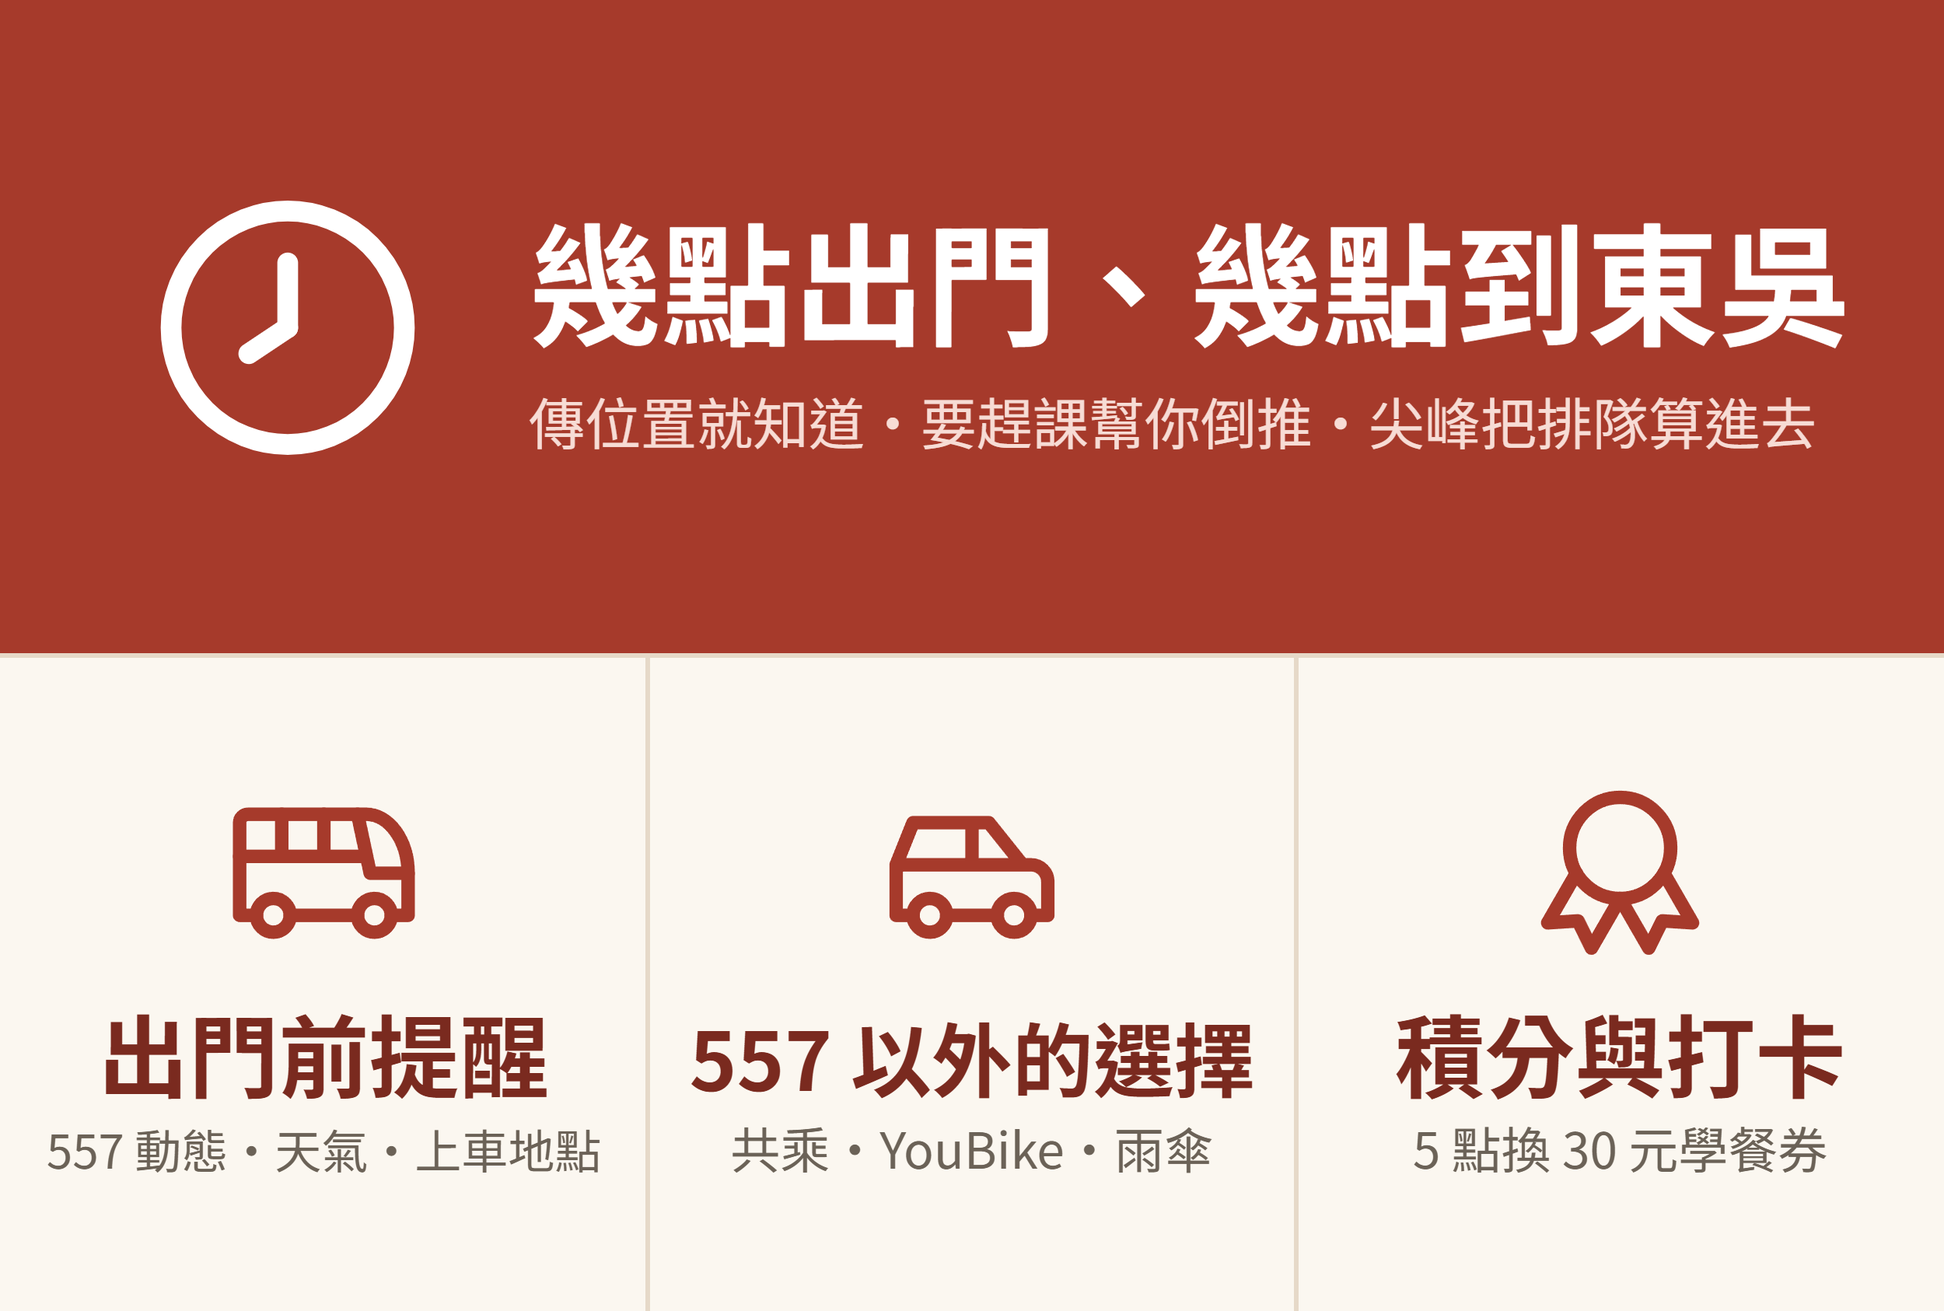
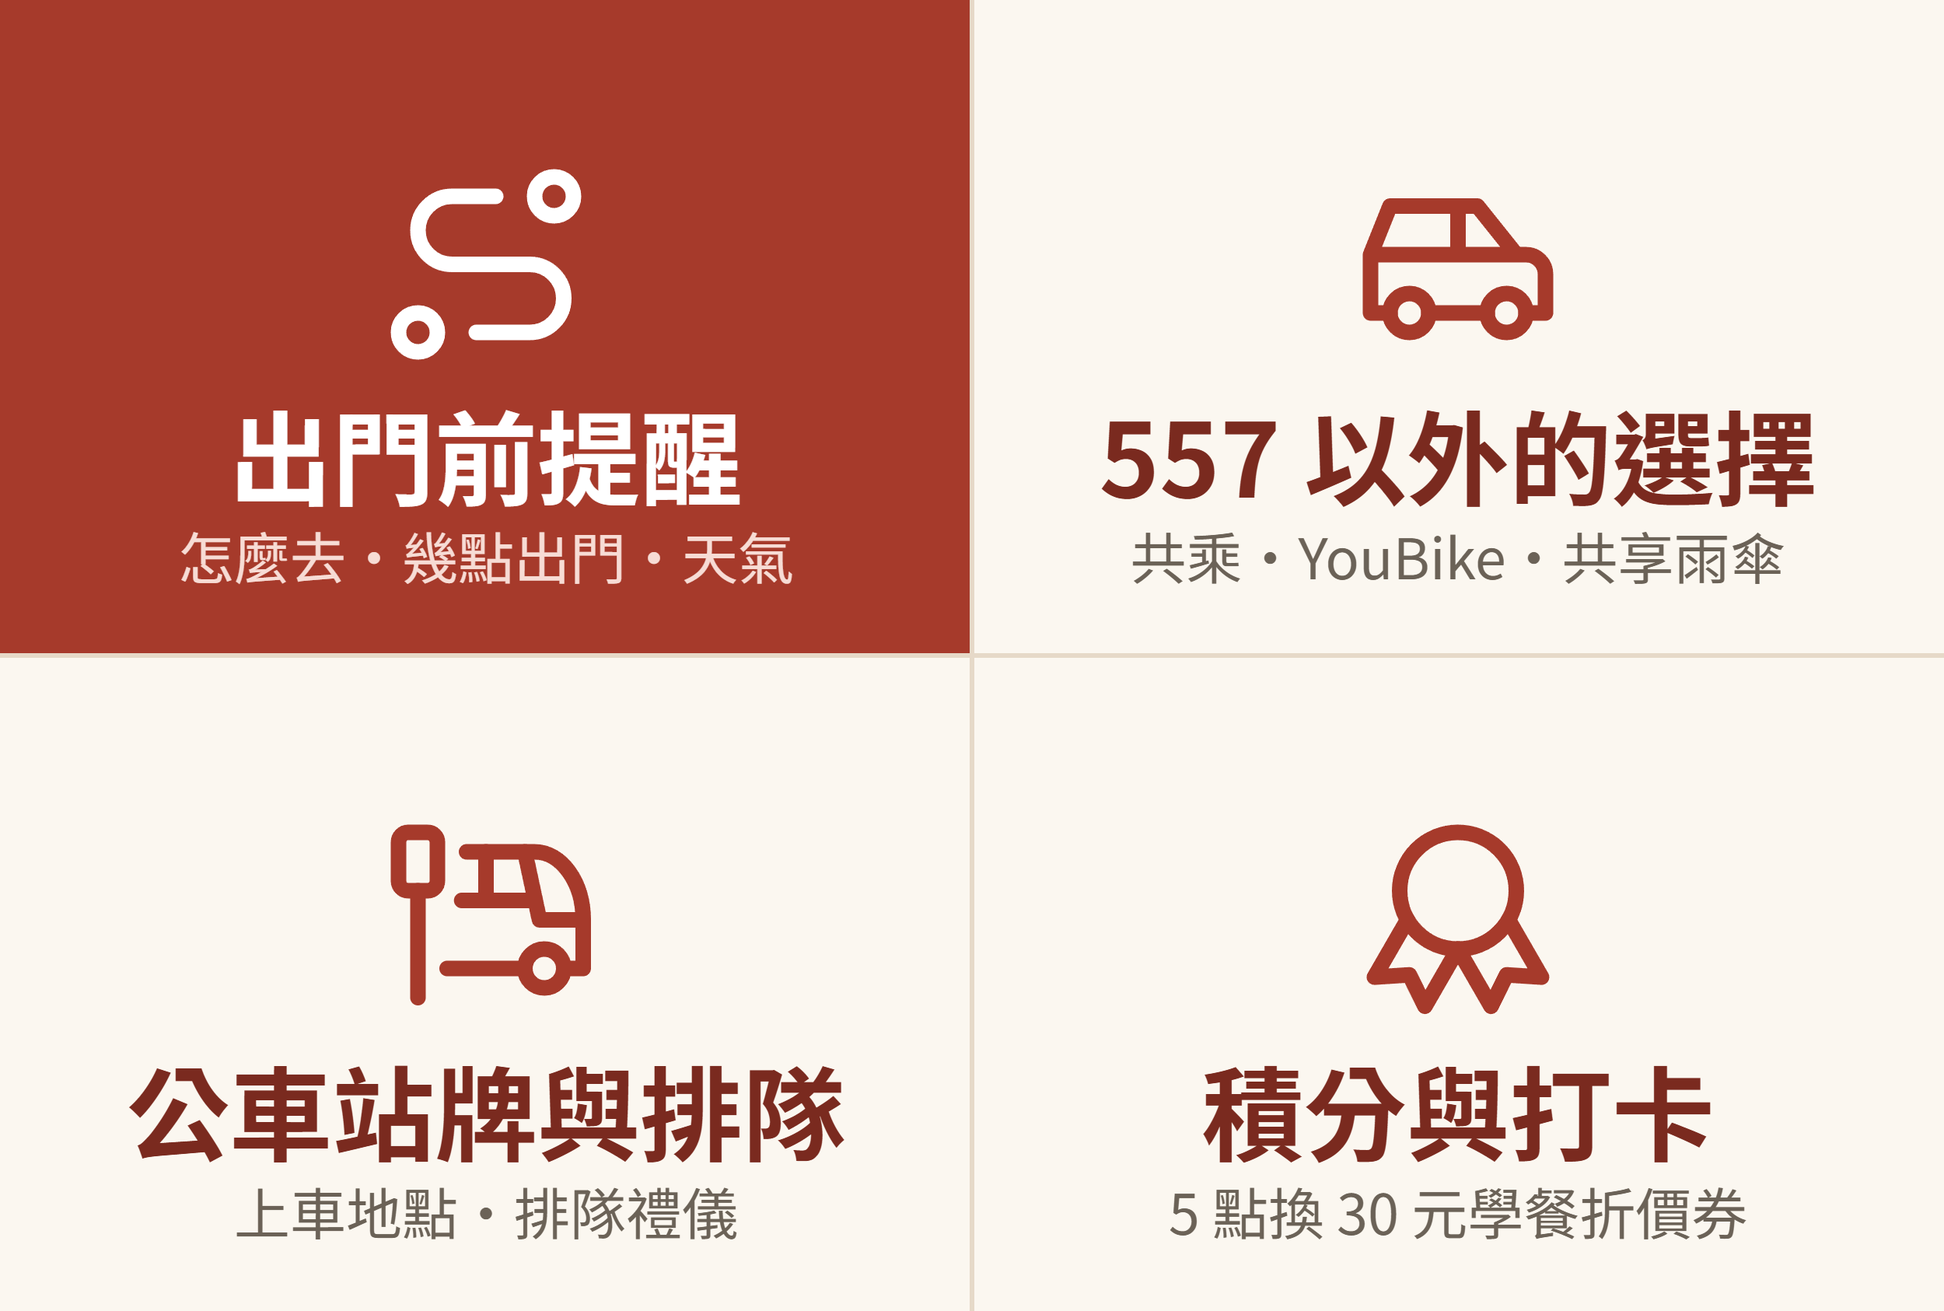
圖文選單改回四格（跟簡報一樣）；預估到達時間放出門前提醒第一顆，回報排隊、新生須知放進公車站牌與排隊禮儀

diff --git a/tests/preview-design.js b/tests/preview-design.js
@@ -51,14 +51,14 @@ function cardsPage() {
 <div class="wrap" id="cards">${items}</div>`;
 }
 
-// 圖文選單（2500×1686，11/28 改成「上面一大格＋下面三格」）：主打「預估到達時間」放最上面整排。
-// 每一格的 text 是按了以後替使用者傳出去的字，要跟 LINE 後台設定的一樣（也要是 bot/選單.gs 認得的分類名稱）。
-// rect 是這一格的位置 [x, y, 寬, 高]，LINE 後台用「上 1 下 3」的版型；用 Messaging API 設定時照這個填 bounds。
+// 圖文選單：四格（跟簡報、bot/選單.gs 的 MENU 一樣），按了 Bot 會把那一類的功能按鈕傳到聊天室。
+// 11/28 試過「上一大格＋下三格」，因為簡報已經用四格，改回四格；主要功能「預估到達時間」放在出門前提醒的第一顆。
+// 上排左到右、下排左到右。text 是按了以後替使用者傳出去的字，要跟 LINE 後台設定的一樣
 const MENU = [
-  { icon: 'clock-hour-8', label: '預估到達時間', hint: '傳位置就知道・要趕課幫你倒推・尖峰把排隊算進去', text: '預估到達時間', primary: true, rect: [0, 0, 2500, 843] },
-  { icon: 'bus', label: '出門前提醒', hint: '557 動態・天氣・上車地點', text: '出門前提醒', rect: [0, 843, 833, 843] },
-  { icon: 'car', label: '557 以外的選擇', hint: '共乘・YouBike・雨傘', text: '557 以外的選擇', rect: [833, 843, 834, 843] },
-  { icon: 'award', label: '積分與打卡', hint: '5 點換 30 元學餐券', text: '積分與打卡', rect: [1667, 843, 833, 843] },
+  { icon: 'route', label: '出門前提醒', hint: '怎麼去・幾點出門・天氣', text: '出門前提醒', primary: true },
+  { icon: 'car', label: '557 以外的選擇', hint: '共乘・YouBike・共享雨傘', text: '557 以外的選擇' },
+  { icon: 'bus-stop', label: '公車站牌與排隊', hint: '上車地點・排隊禮儀', text: '公車站牌與排隊' },
+  { icon: 'award', label: '積分與打卡', hint: '5 點換 30 元學餐折價券', text: '積分與打卡' },
 ];
 
 function menuPage() {
@@ -69,9 +69,9 @@ function menuPage() {
 <script>
 var MENU = ${JSON.stringify(MENU)};
 var UI = { brand: '#A63A2B', brandDark: '#7A2A1F', paper: '#FBF7F0', line: '#E6D9C8', muted: '#6B6257', soft: '#F7DCD5' };
-var W = 2500, H = 1686;
+var COLS = MENU.length === 4 ? 2 : 3;
+var W = 2500, H = 1686, CW = W / COLS, CH = H / 2;
 var canvas = document.getElementById('c'), ctx = canvas.getContext('2d');
-var FONT = '"Noto Sans TC","Microsoft JhengHei",sans-serif';
 
 // 圖示用 Tabler Icons（MIT 授權）。抓 SVG 回來把線條換成指定的顏色，再畫到畫布上
 function icon(name, color) {
@@ -89,49 +89,24 @@ function icon(name, color) {
   });
 }
 
-// 字太長就縮小，左右留 pad
-function fit(text, weight, size, maxW) {
-  ctx.font = weight + ' ' + size + 'px ' + FONT;
-  while (ctx.measureText(text).width > maxW && size > 20) { size -= 4; ctx.font = weight + ' ' + size + 'px ' + FONT; }
-  return size;
-}
-
-document.fonts.ready.then(function () {
-  return Promise.all(MENU.map(function (m) { return icon(m.icon, m.primary ? '#FFFFFF' : UI.brand); }));
-}).then(function (icons) {
+Promise.all(MENU.map(function (m) { return icon(m.icon, m.primary ? '#FFFFFF' : UI.brand); })).then(function (icons) {
   ctx.fillStyle = UI.paper; ctx.fillRect(0, 0, W, H);
   MENU.forEach(function (m, i) {
-    var x = m.rect[0], y = m.rect[1], w = m.rect[2], h = m.rect[3];
-    ctx.textBaseline = 'alphabetic';
-    if (m.primary) {
-      // 主打：磚紅底，左邊大圖示、右邊兩行字
-      ctx.fillStyle = UI.brand; ctx.fillRect(x, y, w, h);
-      var s = 400, ix = x + 170, iy = y + (h - s) / 2;
-      ctx.drawImage(icons[i], ix, iy, s, s);
-      var tx = ix + s + 110, maxW = x + w - tx - 120;
-      ctx.textAlign = 'left';
-      ctx.fillStyle = '#FFFFFF';
-      fit(m.label, 700, 170, maxW);
-      ctx.fillText(m.label, tx, y + h / 2 + 10);
-      ctx.fillStyle = UI.soft;
-      fit(m.hint, 400, 76, maxW);
-      ctx.fillText(m.hint, tx, y + h / 2 + 150);
-    } else {
-      var s2 = 260;
-      ctx.drawImage(icons[i], x + (w - s2) / 2, y + 150, s2, s2);
-      ctx.textAlign = 'center';
-      ctx.fillStyle = UI.brandDark;
-      fit(m.label, 700, 116, w - 90);
-      ctx.fillText(m.label, x + w / 2, y + 560);
-      ctx.fillStyle = UI.muted;
-      fit(m.hint, 400, 64, w - 90);
-      ctx.fillText(m.hint, x + w / 2, y + 660);
-    }
+    var x = (i % COLS) * CW, y = Math.floor(i / COLS) * CH;
+    if (m.primary) { ctx.fillStyle = UI.brand; ctx.fillRect(x, y, CW, CH); }
+    var s = 300;
+    ctx.drawImage(icons[i], x + (CW - s) / 2, y + 190, s, s);
+    ctx.textAlign = 'center'; ctx.textBaseline = 'alphabetic';
+    ctx.fillStyle = m.primary ? '#FFFFFF' : UI.brandDark;
+    ctx.font = '700 132px "Noto Sans TC","Microsoft JhengHei",sans-serif';
+    ctx.fillText(m.label, x + CW / 2, y + 640);
+    ctx.fillStyle = m.primary ? UI.soft : UI.muted;
+    ctx.font = '400 72px "Noto Sans TC","Microsoft JhengHei",sans-serif';
+    ctx.fillText(m.hint, x + CW / 2, y + 745);
   });
   ctx.fillStyle = UI.line;
-  ctx.fillRect(0, 843 - 3, W, 6);
-  ctx.fillRect(833 - 3, 843, 6, H - 843);
-  ctx.fillRect(1667 - 3, 843, 6, H - 843);
+  for (var c = 1; c < COLS; c++) ctx.fillRect(c * CW - 3, 0, 6, H);
+  ctx.fillRect(0, CH - 3, W, 6);
   document.getElementById('status').textContent = '畫好了';
   document.getElementById('save').disabled = false;
   window.__ready = true;

diff --git a/tests/卡片.test.js b/tests/卡片.test.js
@@ -134,5 +134,5 @@ test('訊息紀錄裡存的是卡片的純文字版', () => {
   const row = env.sheets['訊息紀錄'].rows[1];
   assert.equal(row[2], '（加入好友）');
   assert.equal(row[3].split('\n')[0], '嗨！我是東吳通勤達人 🚌');
-  assert.ok(row[3].endsWith('今天要怎麼去學校？\n\n查出門時間、找其他交通方式，或看看怎麼避開 557 尖峰人潮。👇\n［預估到達時間］［出門前提醒］［557 以外的選擇］［積分與打卡］'), row[3]);
+  assert.ok(row[3].endsWith('今天要怎麼去學校？\n\n查出門時間、找其他交通方式，或看看怎麼避開 557 尖峰人潮。👇\n［出門前提醒］［557 以外的選擇］［公車站牌與排隊禮儀］［積分與打卡］'), row[3]);
 });

diff --git a/tests/現場回報.test.js b/tests/現場回報.test.js
@@ -63,7 +63,7 @@ test('亂打的站名不會記', () => {
   assert.equal(rows(env).length, 0);
 });
 
-test('「出門前提醒」選單有回報排隊按鈕', () => {
+test('「公車站牌與排隊禮儀」選單有回報排隊按鈕', () => {
   const env = start();
-  assert.ok(buttonsOf(env.call('menuCategory_', '出門前提醒')).some(b => b[1] === '回報現場'));
+  assert.ok(buttonsOf(env.call('menuCategory_', '公車站牌與排隊禮儀')).some(b => b[1] === '回報現場'));
 });

diff --git a/LINE使用流程.md b/LINE使用流程.md
@@ -22,21 +22,24 @@ Bot 會一次傳三則訊息：
 
 ### 2. 圖文選單（聊天室下方，一直都在）
 
+四格（跟簡報一樣，圖在 `design/圖文選單.png`）：
+
 ```
-┌──────────────────────────────────────────┐
-│ 🕗 預估到達時間                     │
-│   傳位置就知道・要趕課幫你倒推・尖峰把排隊算進去 │
-├─────────────┬──────────────┬─────────────┤
-│ 🚌 出門前提醒  │ 🚗 557 以外的選擇 │ 🏅 積分與打卡  │
-└─────────────┴──────────────┴─────────────┘
+┌──────────────────────┬──────────────────────┐
+│ 出門前提醒              │ 557 以外的選擇           │
+│ 怎麼去・幾點出門・天氣     │ 共乘・YouBike・共享雨傘    │
+├──────────────────────┼──────────────────────┤
+│ 公車站牌與排隊           │ 積分與打卡               │
+│ 上車地點・排隊禮儀        │ 5 點換 30 元學餐折價券     │
+└──────────────────────┴──────────────────────┘
 ```
 
-| 格子 | 按了傳出的字 |
-|---|---|
-| 上面大格 | `預估到達時間` |
-| 下面左 | `出門前提醒` |
-| 下面中 | `557 以外的選擇` |
-| 下面右 | `積分與打卡` |
+| 格子 | 按了傳出的字 | 點進去的按鈕 |
+|---|---|---|
+| 左上 | `出門前提醒` | **🚇 預估到達時間**、557 即時動態、比較所有路線、降雨查詢、雨天與考試週訂閱提醒 |
+| 右上 | `557 以外的選擇` | 計程車共乘、YouBike 車數、共享雨傘、包車調查 |
+| 左下 | `公車站牌與排隊` | 557 上車地點、排隊禮儀短片、回報我在哪裡排隊、新生須知 |
+| 右下 | `積分與打卡` | 到校打卡、出校打卡、我的紀錄、兌換學餐折價券、我的折價券、全校減碳 |
 
 ### 3. 打字也可以
 - 傳「選單」「功能」「說明」「menu」：跳出主選單
@@ -49,7 +52,7 @@ Bot 會一次傳三則訊息：
 
 ## 二、🚇 預估到達時間（主要功能）
 
-按上面大格，Bot 回入口卡片：
+按「出門前提醒」→ 第一顆［🚇 預估到達時間］（或直接傳「預估到達時間」），Bot 回入口卡片：
 
 ```
 🚇 預估到達時間
@@ -150,15 +153,38 @@ Bot 會一次傳三則訊息：
 
 ## 三、出門前提醒
 
-按下面左邊的格子，Bot 回：
+按左上的格子，Bot 回：
 ```
 出門前提醒
-出門前看看天氣、557 現在到哪、上車地點和其他路線。
-［557 即時動態］［比較所有路線］［公車站牌與排隊禮儀］［回報我在哪裡排隊］［降雨查詢］［雨天與考試週訂閱提醒］
+幾點出門、幾點到東吳？出門前看看 557 現在到哪、其他路線和天氣。
+［🚇 預估到達時間］［557 即時動態］［比較所有路線］［降雨查詢］［雨天與考試週訂閱提醒］
 ```
 
 | 按鈕 | Bot 回什麼 | 背後怎麼做 |
 |---|---|---|
+| **🚇 預估到達時間** | 入口卡片（見第二節） | 見第二節 |
+| **557 即時動態** | 往東吳（捷運士林站、士林國中）和往捷運站（東吳大學）下一班幾分鐘到 | TDX 公車即時到站 API，一次查兩個方向 |
+| **比較所有路線** | 現在從士林站出發，557 和其他 13 條公車哪條最快到學校 | TDX 即時到站，加上各路線的估計車程和下車後走路時間 |
+| **降雨查詢** | 現在或明天早上的降雨機率 | 中央氣象署士林區 3 小時降雨機率；晚上 7 點以後看明天早上 |
+| **雨天與考試週訂閱提醒** | ［開啟提醒］［關閉提醒］ | 每晚 9 點檢查明天會不會下雨（60% 以上）、是不是考試週，有一項就推播給訂閱的人；週末、放假不發。LINE 免費每月只能推 200 則，所以只發給有訂閱的人 |
+
+## 三之一、公車站牌與排隊
+
+按左下的格子，Bot 回：
+```
+公車站牌與排隊禮儀
+557 現在在哪裡上車、怎麼排隊，也可以回報你在哪一站排隊。
+［557 上車地點］［排隊禮儀短片］［回報我在哪裡排隊］［新生須知］
+```
+
+| 按鈕 | Bot 回什麼 | 背後怎麼做 |
+|---|---|---|
+| **557 上車地點** | 捷運士林站、士林國中站（「尖峰建議來這裡排」）、校內站的上車位置，［看德育中心公告］［557 現在到哪了］ | 每 6 小時檢查德育中心的公告頁，站位真的有變才推播給所有好友，只改排版不推；摘要用 Gemini 整理 |
+| **排隊禮儀短片** | 排隊規則和短片 | 只講規則，不點名、不拍任何人 |
+| **回報我在哪裡排隊** | 選站（捷運士林站、士林國中、校內 557 站、錢穆故居站）→「謝謝回報！最近 10 分鐘有 N 位同學也在這裡排」 | 不用 GPS、不給點數，避免為了點數亂回報；同一個人短時間重按只算一次。這是之後校正排隊預測的現場資料 |
+| **新生須知** | 第一次搭 557 的三件事＋［新生測驗］ | 加好友時也會自動跳出 |
+
+---|---|---|
 | **557 即時動態** | 往東吳（捷運士林站、士林國中）和往捷運站（東吳大學）下一班幾分鐘到 | TDX 公車即時到站 API，一次查兩個方向 |
 | **比較所有路線** | 現在從士林站出發，557 和其他 13 條公車哪條最快到學校 | TDX 即時到站，加上各路線的估計車程和下車後走路時間 |
 | **公車站牌與排隊禮儀** | 左右滑兩張：557 上車地點（捷運士林站、士林國中站「尖峰建議來這裡排」、校內站）＋排隊禮儀短片 | 每 6 小時檢查德育中心的公告頁，站位真的有變才推播給所有好友，只改排版不推；摘要用 Gemini 整理 |

diff --git a/README.md b/README.md
@@ -12,7 +12,7 @@
 |---|---|
 | 出門前提醒 | **🚇 預估到達時間**（主打：傳位置看現在出發幾點到；選節次和大樓再傳位置，倒推最晚幾點出門；尖峰把排隊算進去）、比較所有路線（公車＋YouBike＋計程車共乘）、557 發車前提醒、557 即時動態、降雨查詢、雨天與考試週訂閱提醒 |
 | 557 以外的選擇 | 計程車共乘、YouBike 車數、共享雨傘（規劃與 Raingo 合作）、包車調查（規劃中） |
-| 出門前提醒裡的「公車站牌與排隊禮儀」 | 557 最新上車地點、排隊禮儀短片；站牌改了推播給所有好友 |
+| 公車站牌與排隊禮儀 | 557 最新上車地點、排隊禮儀短片；站牌改了推播給所有好友 |
 | 積分與打卡 | 到校打卡（走路進學校、早到、騎車到校）、出校打卡（走路出學校、騎車回士林，放學分流）；走路和早到用定位打兩次卡，騎車傳 YouBike 截圖；每種一天一次、一天最多 3 點，集滿 5 點換 30 元學餐折價券；我的紀錄、全校減碳。規則與防作弊見 [打卡防弊改善.md](打卡防弊改善.md) |
 | 學校端 | 每晚 10 點 AI 整理每日報表，寄給德育中心、軍訓室 |
 
@@ -29,7 +29,7 @@
 
 **3. 試算表**：手動匯入 `bot/行事曆.csv`，分頁名稱叫「行事曆」；其他分頁 Bot 會自己建。
 
-**4. LINE 後台**：自動回應關閉、Webhook 開啟。圖文選單用 `design/圖文選單.png`（大型 2500×1686，**上面一大格＋下面三格**），每一格傳出的文字：上面 `預估到達時間`；下面左到右 `出門前提醒`、`557 以外的選擇`、`積分與打卡`。舊的四格選單傳的字（`公車站牌與排隊禮儀` 等）Bot 也還認得。改圖：`npm run preview` 後開 http://localhost:4557/menu 按「存成 PNG」
+**4. LINE 後台**：自動回應關閉、Webhook 開啟。圖文選單用 `design/圖文選單.png`（大型 4 格，跟簡報一樣），四格傳出的文字：`出門前提醒`、`557 以外的選擇`、`公車站牌與排隊`、`積分與打卡`。主要功能「預估到達時間」在出門前提醒的第一顆。改圖：`npm run preview` 後開 http://localhost:4557/menu 按「存成 PNG」
 
 ## 改程式
 

diff --git a/LINE指令說明.md b/LINE指令說明.md
@@ -16,7 +16,7 @@
 |---|---|---|
 | 左上 | `出門前提醒` | 這一類的功能按鈕 |
 | 右上 | `557 以外的選擇` | 這一類的功能按鈕 |
-| 左下 | `公車站牌與排隊禮儀`（舊名稱 `公車站牌與排隊` 也認得） | **直接**左右滑兩張卡片：557 上車地點、排隊禮儀短片 |
+| 左下 | `公車站牌與排隊`（`公車站牌與排隊禮儀` 也認得） | 這一類的功能按鈕 |
 | 右下 | `積分與打卡` | 這一類的功能按鈕 |
 
 傳 `選單` 也會出現同樣的四顆按鈕。內容在 `bot/選單.gs` 的 `MENU`。
@@ -25,7 +25,8 @@
 
 | 分類 | 按鈕 → 傳出的字 |
 |---|---|
-| 出門前提醒 | 🚇 預估到達時間 → `到校預估`（裡面有傳送我的位置、我要趕課 `出門時間`、我已經在士林站 `到校預估 士林站`）；比較所有路線 → `比較所有路線`；557 即時動態 → `557 即時動態`；回報 557 現場 → `回報現場`；降雨查詢 → `降雨查詢`；雨天與考試週訂閱提醒 → `訂閱提醒設定` |
+| 出門前提醒 | 🚇 預估到達時間 → `預估到達時間`（入口卡片：傳送我的位置、我要趕課 `出門時間`、我已經在士林站 `到校預估 士林站`）；557 即時動態 → `557 即時動態`；比較所有路線 → `比較所有路線`；降雨查詢 → `降雨查詢`；雨天與考試週訂閱提醒 → `訂閱提醒設定` |
+| 公車站牌與排隊禮儀 | 557 上車地點 → `557 站牌資訊`；排隊禮儀短片 → `排隊禮儀`；回報我在哪裡排隊 → `回報現場`；新生須知 → `新生須知` |
 | 557 以外的選擇 | 計程車共乘 → `共乘`；YouBike 車數 → `YouBike`；共享雨傘 → `共享雨傘`；包車調查 → `包車` |
 | 積分與打卡 | 到校打卡 → `到校打卡`（再選：🚶 走路進學校 `打卡 進校`、🌅 早到 `打卡 早到`、🚲 騎車到校 `騎車到校`）；出校打卡 → `出校打卡`（再選：🚶 走路出學校 `打卡 出校`、🚲 騎車回士林 `騎車回士林`）；我的紀錄 → `我的紀錄`；兌換學餐折價券 → `兌換折價券`；我的折價券 → `我的折價券`；全校減碳 → `全校減碳` |
 
